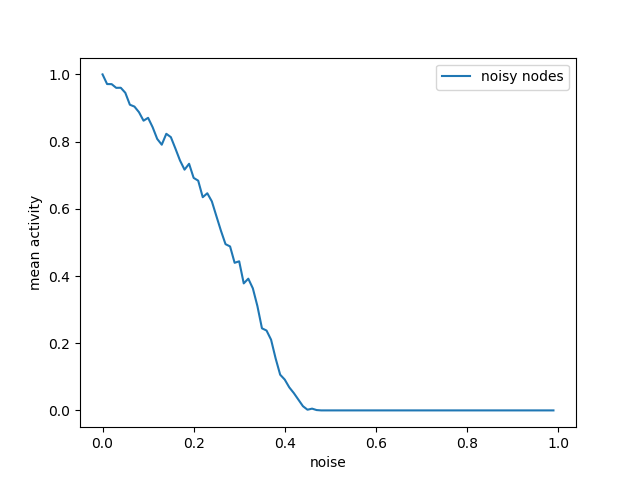
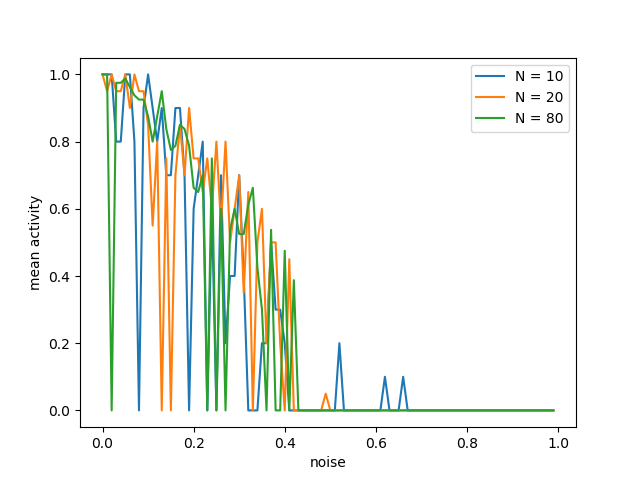
CODING: made the graph for the noise. dovrebbe essere una sigmoide ma non sembra molto..... adesso che faccio?

Changed region(s): [[0.1562, 0.1562, 0.875, 0.875], [0.6875, 0.125, 0.9062, 0.2812]]

diff --git a/analysis.py b/analysis.py
@@ -8,45 +8,44 @@ PATH = "tesi"
 #%%  ################################ MEAN ACTIVITY VERSUS NOISE #####################À
 
 
-realizations = 100
+realizations = 1
 steps = 100
-N = 40
-K = 2
 
-for N in [20,40]:
-    for s in [True]:
-        mean_activities = []
-        probabilities = [i*0.01 for i in range(steps)]
-        if s:
-            label = "noisy links"
-        else:
-            label = "noisy nodes"
-            
-            
-        for i in range(steps):
-            activities = []
-            graphs = [rn.Random_Network(N, K) for i in range(realizations)]
+K = 2
+for N in [10,100,1000]:
+    mean_activities = []
+    probabilities = [i*0.01 for i in range(steps)]
+    # if s:
+    #     label = "noisy links"
+    # else:
+    #     label = "noisy nodes"
+    label = "N = " + str(N)
         
-            for j in range(realizations):
-                #graphs = [rn.Random_Network(N, 2) for i in range(realizations)]
-                rn.initial_conditions(graphs[j], N)
-                rn.evolution(graphs[j],iterations=N*2,p=(0.01*i),p_noise=s)
-                activities.append(rn.activity(graphs[j], N))
-            mean_activities.append(np.mean((np.array(activities))))
-        
-        
-        plt.plot(probabilities,mean_activities,label=label)
-        plt.legend()
-        plt.xlabel("noise")
-        plt.ylabel("mean activity")
-        plt.savefig(PATH + "activity.png")
-        # a = [i*0.01 for i in range(steps)]
-        # s = pd.Series(a)
-        # df = pd.DataFrame()
-        # df[0] = a
-        # df[1] = pd.DataFrame(np.array(mean_activities))
-        # df.to_csv(PATH+"/data/"+label+".dat",sep = " ",decimal=".",index=False,header=False)
-        
+    for i in range(steps):
+        activities = []
+        graphs = [rn.Random_Network(N, K) for i in range(realizations)]
+    
+        for j in range(realizations):
+            #graphs = [rn.Random_Network(N, 2) for i in range(realizations)]
+            rn.initial_conditions(graphs[j], N)
+
+            rn.evolution(graphs[j],iterations=N+1,p=(0.01*i))
+            activities.append(rn.activity(graphs[j], N))
+        mean_activities.append(np.mean((np.array(activities))))
+    
+    
+    plt.plot(probabilities,mean_activities,label=label)
+    plt.legend()
+plt.xlabel("noise")
+plt.ylabel("mean activity")
+plt.savefig(PATH + "activity.png")
+# a = [i*0.01 for i in range(steps)]
+# s = pd.Series(a)
+# df = pd.DataFrame()
+# df[0] = a
+# df[1] = pd.DataFrame(np.array(mean_activities))
+# df.to_csv(PATH+"/data/"+label+".dat",sep = " ",decimal=".",index=False,header=False)
+
 
 #%% ########################## MEAN ACTIVITY VERSUS K-INCOMING LINKS #############################
 
@@ -149,4 +148,21 @@ df.to_csv(PATH+"/data/mean-number-of-loops.dat",sep=" ",header=False)
 #         tot = np.block([[tot,       neg1        ],
 #                         [neg2, gr[i].adj_matrix              ]])
 
+#%%
+N = 100
+iterations = 10
+
+K = 10
+mean_outgoing_links = []
+
+for k in range(2,100):
+    
+    outgoing_links = []
+
+    for j in range(iterations): 
+        g = rn.Random_Network(k, K)
+        outgoing_links.append(np.mean(sum(g.adj_matrix)))
+    mean_outgoing_links.append(np.mean(outgoing_links))
+        
+plt.plot(mean_outgoing_links)
 #%%

diff --git a/tesi/analysis.tex b/tesi/analysis.tex
@@ -41,7 +41,7 @@ $$
 
 \section{Loops and Control nodes}
 In simple random networks one can always find the number of independent loops.
-Independent loops determine the complexity of the networks\cite{K38}, and are important for the construction of the model. In fact from the independ loops one can find the \emph{control nodes} of the network, which are the nodes with maximum connectivity. Control nodes determine the whole activity and stability of the network. 
+Independent loops determine the complexity of the networks\cite{K38}, and are important for the construction of the model. In fact from the independent loops one can find the \emph{control nodes} of the network, which are the nodes that theirstate are able to force the state of the whole network, and are the nodes with maximum connectivity. Control nodes determine the whole activity and stability of the network. 
 In RBNs with parameter $K=2$, we can see in Figure \ref{fig:loops} that the number of independent loops is linear with the network size.
 \begin{figure}[h]
 \centering
